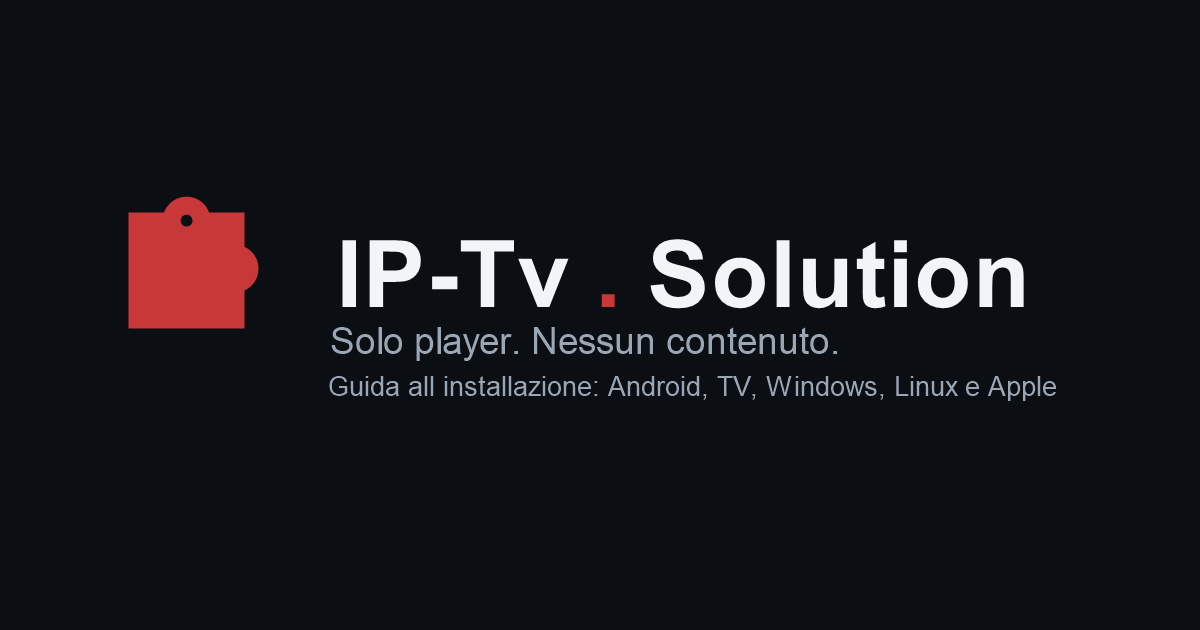
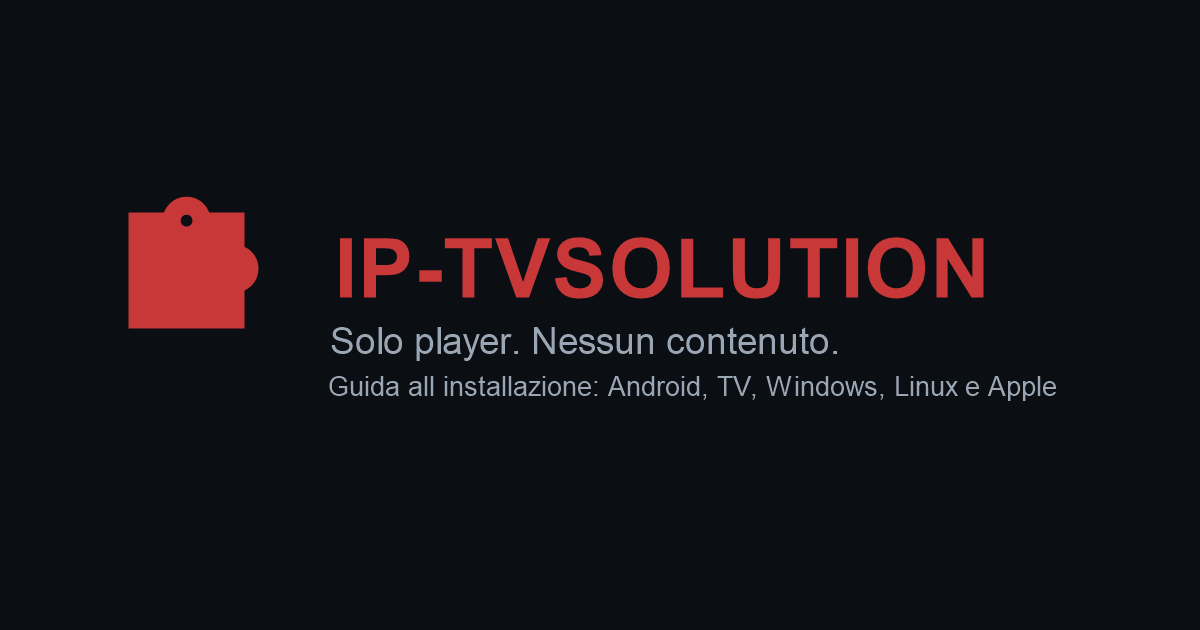
Rebrand: IP-TVSOLUTION in tutto il sito, SVG, OG image e app

Changed region(s): [[0.2775, 0.3619, 0.8633, 0.5127]]

diff --git a/src/app/chi-siamo/page.tsx b/src/app/chi-siamo/page.tsx
@@ -5,9 +5,9 @@ import { siteConfig } from "@/lib/site";
 export const metadata = buildMetadata({
   title: "Chi siamo e contatti",
   description:
-    "Chi è IP-Tv.Solution: portale italiano indipendente per l'installazione di player IPTV legittimi. Scopri il progetto, le piattaforme supportate e come contattarci.",
+    "Chi è IP-TVSOLUTION: portale italiano indipendente per l'installazione di player IPTV legittimi. Scopri il progetto, le piattaforme supportate e come contattarci.",
   path: "/chi-siamo/",
-  keywords: ["chi siamo IP-Tv.Solution", "contatti IP-Tv.Solution", "progetto player IPTV"],
+  keywords: ["chi siamo IP-TVSOLUTION", "contatti IP-TVSOLUTION", "progetto player IPTV"],
 });
 
 const platformLinks = [
@@ -57,7 +57,7 @@ export default function ChiSiamoPage() {
             {/* eslint-disable-next-line @next/next/no-img-element */}
             <img
               src="/logos/iptv-solution-text.svg"
-              alt="Logo IP-Tv.Solution"
+              alt="Logo IP-TVSOLUTION"
               className="h-16 w-auto object-contain"
             />
             <div>
@@ -79,10 +79,10 @@ export default function ChiSiamoPage() {
         <article className="min-w-0 space-y-8">
           <section aria-labelledby="chi-siamo-titolo">
             <h2 id="chi-siamo-titolo" className="text-xl font-semibold text-fg sm:text-2xl">
-              Chi è IP-Tv.Solution
+              Chi è IP-TVSOLUTION
             </h2>
             <p className="mt-3 text-sm leading-relaxed text-secondary sm:text-base">
-              IP-Tv.Solution è un progetto indipendente italiano nato per aiutare gli utenti a
+              IP-TVSOLUTION è un progetto indipendente italiano nato per aiutare gli utenti a
               installare player IPTV legittimi su qualsiasi dispositivo. Il portale raccoglie guide
               verificate, link ufficiali ai canali di distribuzione dei produttori e informazioni
               chiare sui limiti di ogni piattaforma.

diff --git a/src/app/faq/page.tsx b/src/app/faq/page.tsx
@@ -13,7 +13,7 @@ const faqs: FaqItem[] = [
   {
     question: "Questo sito fornisce canali, playlist o abbonamenti IPTV?",
     answer:
-      "No. IP-Tv.Solution non ospita, non vende e non distribuisce contenuti, liste di canali, abbonamenti o credenziali. Il portale pubblica esclusivamente informazioni sull'installazione di player regolarmente distribuiti dai produttori. Ogni utente configura il proprio player con fonti di cui possiede i diritti.",
+      "No. IP-TVSOLUTION non ospita, non vende e non distribuisce contenuti, liste di canali, abbonamenti o credenziali. Il portale pubblica esclusivamente informazioni sull'installazione di player regolarmente distribuiti dai produttori. Ogni utente configura il proprio player con fonti di cui possiede i diritti.",
   },
   {
     question: "I player del catalogo includono già dei contenuti?",
@@ -66,7 +66,7 @@ const faqs: FaqItem[] = [
       "No. Il portale è statico e non include strumenti di tracciamento pubblicitario. Le preferenze dei filtri restano nella memoria della pagina e non vengono inviate a server esterni.",
   },
   {
-    question: "Come posso contattare IP-Tv.Solution per informazioni o assistenza?",
+    question: "Come posso contattare IP-TVSOLUTION per informazioni o assistenza?",
     answer:
       "Scrivi a ip.tv-solution@tutamail.com: è l'indirizzo ufficiale per informazioni, segnalazioni e richieste di attivazione. Trovi lo stesso indirizzo anche in fondo a ogni pagina. Rispondiamo con indicazioni sull'installazione dei player e sul flusso di registrazione; ricorda che il sito non fornisce contenuti, playlist o credenziali.",
   },

diff --git a/src/app/note-legali/page.tsx b/src/app/note-legali/page.tsx
@@ -5,7 +5,7 @@ import { breadcrumbJsonLd, buildMetadata } from "@/lib/seo";
 export const metadata = buildMetadata({
   title: "Note legali e avvertenze",
   description:
-    "Natura del servizio, assenza di contenuti, uso dei marchi, link esterni, responsabilità dell'utente e trattamento dei dati su IP-Tv.Solution.",
+    "Natura del servizio, assenza di contenuti, uso dei marchi, link esterni, responsabilità dell'utente e trattamento dei dati su IP-TVSOLUTION.",
   path: "/note-legali/",
 });
 
@@ -13,7 +13,7 @@ const sections = [
   {
     title: "1. Natura del servizio",
     body: [
-      "IP-Tv.Solution è un portale informativo indipendente dedicato all'installazione di player IPTV legittimi. Il sito non è un servizio di diffusione televisiva e non offre alcun tipo di abbonamento, lista di canali o accesso a contenuti.",
+      "IP-TVSOLUTION è un portale informativo indipendente dedicato all'installazione di player IPTV legittimi. Il sito non è un servizio di diffusione televisiva e non offre alcun tipo di abbonamento, lista di canali o accesso a contenuti.",
       "Le informazioni pubblicate hanno finalità divulgative e tecniche: descrivono canali di installazione ufficiali, requisiti dei dispositivi e limiti noti delle piattaforme.",
     ],
   },

diff --git a/src/lib/site.ts b/src/lib/site.ts
@@ -1,9 +1,9 @@
 import type { Metadata } from "next";
 
 export const siteConfig = {
-  name: "IP-Tv.Solution",
-  shortName: "IP-Tv.Solution",
-  legalName: "IP-Tv.Solution",
+  name: "IP-TVSOLUTION",
+  shortName: "IP-TVSOLUTION",
+  legalName: "IP-TVSOLUTION",
   tagline: "Solo player. Nessun contenuto.",
   description:
     "Portale italiano dedicato all'installazione di player IPTV legittimi su Android, Android TV, Windows, web, LG webOS, Samsung Tizen, Apple e Linux. Guide verificate, nessun contenuto e nessuna playlist.",
@@ -31,7 +31,7 @@ export const siteConfig = {
     { label: "Note legali", href: "/note-legali/" },
   ],
   disclaimer:
-    "IP-Tv.Solution non fornisce, ospita né distribuisce contenuti, playlist, abbonamenti o credenziali IPTV. Il sito pubblica esclusivamente informazioni sull'installazione di player legittimi: ogni utente configura il proprio player con fonti di cui possiede i diritti.",
+    "IP-TVSOLUTION non fornisce, ospita né distribuisce contenuti, playlist, abbonamenti o credenziali IPTV. Il sito pubblica esclusivamente informazioni sull'installazione di player legittimi: ogni utente configura il proprio player con fonti di cui possiede i diritti.",
 } as const;
 
 export function absoluteUrl(path: string): string {

diff --git a/src/app/page.tsx b/src/app/page.tsx
@@ -65,7 +65,7 @@ export default function HomePage() {
             {/* eslint-disable-next-line @next/next/no-img-element */}
             <img
               src="/logos/iptv-solution-text.svg"
-              alt="Logo IP-Tv.Solution: puzzle rosso con la scritta IP-Tv.Solution"
+              alt="Logo IP-TVSOLUTION: puzzle rosso con la scritta IP-TVSOLUTION"
               width={240}
               height={55}
               className="h-auto w-60 shrink-0"
@@ -73,7 +73,7 @@ export default function HomePage() {
             <div>
               <p className="text-xs font-semibold uppercase tracking-wider text-accent">Il progetto</p>
               <h2 id="nostri-player-titolo" className="mt-1 text-2xl font-semibold text-fg sm:text-3xl">
-                I nostri player IP-Tv.Solution v1.9
+                I nostri player IP-TVSOLUTION v1.9
               </h2>
               <p className="mt-2 max-w-3xl text-sm leading-relaxed text-secondary">
                 Cinque edizioni del progetto per Windows, Web/Chrome, Smart TV, Android e iPhone.

diff --git a/public/anti-clone.js b/public/anti-clone.js
@@ -1,4 +1,4 @@
-/* IP-Tv.Solution - deterrente anti-clone.
+/* IP-TVSOLUTION - deterrente anti-clone.
    Nota: nessun sito statico è "non clonabile" al 100%; questo rende
    difficile la copia casuale (tasto destro, selezione, drag, devtools). */
 (function () {
@@ -45,6 +45,6 @@
   }, 1000);
 
   // 6. Console disclaimer
-  console.log("%cIP-Tv.Solution", "color:#C83838;font-size:20px;font-weight:bold");
+  console.log("%cIP-TVSOLUTION", "color:#C83838;font-size:20px;font-weight:bold");
   console.log("Solo player multimediali. Nessun contenuto, playlist o credenziale IPTV è fornito.");
 })();

diff --git a/src/components/site-footer.tsx b/src/components/site-footer.tsx
@@ -13,7 +13,7 @@ export function SiteFooter() {
             {/* eslint-disable-next-line @next/next/no-img-element */}
             <img
               src="/logos/iptv-solution-text.svg"
-              alt="IP-Tv.Solution"
+              alt="IP-TVSOLUTION"
               className="h-9 w-auto object-contain"
             />
             <p className="mt-3 max-w-md text-sm leading-relaxed text-secondary">

diff --git a/src/types/app.ts b/src/types/app.ts
@@ -81,7 +81,7 @@ export interface AppRecord {
   featured?: boolean;
   order?: number;
   verifiedAt?: string;
-  /** True per i player del progetto IP-Tv.Solution. */
+  /** True per i player del progetto IP-TVSOLUTION. */
   project?: boolean;
   /** Versione del progetto mostrata come badge (es. "1.9"). */
   version?: string;

diff --git a/src/lib/seo.ts b/src/lib/seo.ts
@@ -17,7 +17,7 @@ const OG_IMAGE = {
   url: "/og-image.png",
   width: 1200,
   height: 630,
-  alt: "IP-Tv.Solution — Solo player IPTV, nessun contenuto",
+  alt: "IP-TVSOLUTION — Solo player IPTV, nessun contenuto",
 };
 
 /** Metadata Open Graph/Twitter coerenti per tutte le pagine statiche. */

diff --git a/src/app/layout.tsx b/src/app/layout.tsx
@@ -46,7 +46,7 @@ export const metadata: Metadata = {
         url: "/og-image.png",
         width: 1200,
         height: 630,
-        alt: "IP-Tv.Solution — Solo player IPTV, nessun contenuto",
+        alt: "IP-TVSOLUTION — Solo player IPTV, nessun contenuto",
       },
     ],
   },

diff --git a/BACKLINK-LEGGITIMI.md b/BACKLINK-LEGGITIMI.md
@@ -1,4 +1,4 @@
-# Piano backlink legittimi — IP-Tv.Solution
+# Piano backlink legittimi — IP-TVSOLUTION
 
 Obiettivo: aumentare l'autorità del dominio `https://ip-tvsolution.online` con link provenienti da fonti reali e pertinenti. **Nessuna link farm, nessuno spam, nessuno schema di scambio link.**
 
@@ -36,7 +36,7 @@ Obiettivo: aumentare l'autorità del dominio `https://ip-tvsolution.online` con 
 | # | Piattaforma | Azione | Note |
 |---|---|---|---|
 | 1 | X / Twitter | Crea profilo @IPTvSolution con la bio qui sotto | Aggiungi il link al sito nel campo URL. |
-| 2 | LinkedIn | Crea pagina aziendale "IP-Tv.Solution" | Categoria "Software Development"; inserisci sito e settore. |
+| 2 | LinkedIn | Crea pagina aziendale "IP-TVSOLUTION" | Categoria "Software Development"; inserisci sito e settore. |
 | 3 | Facebook | Crea pagina pubblica | Inserisci sito, email e descrizione breve. |
 | 4 | Mastodon | https://mastodon.social → nuovo account | Bio + link; tagghiamo #opensource #iptv. |
 | 5 | Reddit | r/opensource, r/selfhosted, r/androidapps | **Solo post informativi**, non promozionali. Regole subreddit: verificarle prima. |
@@ -50,17 +50,17 @@ Obiettivo: aumentare l'autorità del dominio `https://ip-tvsolution.online` con 
 
 ### Email di richiesta per AlternativeTo (hello@alternativeto.net)
 ```
-Subject: Addition request: IP-Tv.Solution - IPTV player hub
+Subject: Addition request: IP-TVSOLUTION - IPTV player hub
 
 Hi AlternativeTo team,
 
-I would like to submit IP-Tv.Solution, a curated hub of legitimate IPTV player apps for Android, Android TV, Windows, Web/Chrome, LG webOS, Samsung Tizen, Apple and Linux.
+I would like to submit IP-TVSOLUTION, a curated hub of legitimate IPTV player apps for Android, Android TV, Windows, Web/Chrome, LG webOS, Samsung Tizen, Apple and Linux.
 
 Website: https://ip-tvsolution.online
 Contact: ip.tv-solution@tutamail.com
 Source: https://github.com/casper68ch/ip-tvsolution
 
-The portal lists 21 players (16 third-party + 5 own IP-Tv.Solution v1.9 builds) with official download links and step-by-step installation guides. It provides no channels, playlists, subscriptions or credentials - players only.
+The portal lists 21 players (16 third-party + 5 own IP-TVSOLUTION v1.9 builds) with official download links and step-by-step installation guides. It provides no channels, playlists, subscriptions or credentials - players only.
 
 Thank you for considering it.
 Casper
@@ -68,33 +68,33 @@ Casper
 
 ### Bio breve (Italiano)
 ```
-IP-Tv.Solution — Player IPTV legittimi per Android, Windows, Smart TV e Linux.
+IP-TVSOLUTION — Player IPTV legittimi per Android, Windows, Smart TV e Linux.
 Solo player. Nessun contenuto, playlist o credenziale.
 https://ip-tvsolution.online
 ```
 
 ### Short description (English)
 ```
-IP-Tv.Solution is a curated hub of legitimate IPTV player apps for Android, Android TV, Windows, Web, LG webOS, Samsung Tizen, Apple and Linux. No playlists, no credentials — just players, with official installation guides. https://ip-tvsolution.online
+IP-TVSOLUTION is a curated hub of legitimate IPTV player apps for Android, Android TV, Windows, Web, LG webOS, Samsung Tizen, Apple and Linux. No playlists, no credentials — just players, with official installation guides. https://ip-tvsolution.online
 ```
 
 ### Descrizione lunga per directory (English)
 ```
-IP-Tv.Solution is an independent, Italian-language directory of legitimate multimedia player applications. It helps users find the right IPTV player for their device — Android, Android TV, Windows, Web/Chrome, LG webOS, Samsung Tizen, Apple and Linux — with step-by-step installation guides, official download links, pros and cons, and clear legal disclaimers.
+IP-TVSOLUTION is an independent, Italian-language directory of legitimate multimedia player applications. It helps users find the right IPTV player for their device — Android, Android TV, Windows, Web/Chrome, LG webOS, Samsung Tizen, Apple and Linux — with step-by-step installation guides, official download links, pros and cons, and clear legal disclaimers.
 
 The project also publishes five editions of its own player (Windows, Web/Chrome, Smart TV, Android and iPhone PWA, version 1.9) with activation and automatic updates.
 
-IP-Tv.Solution does NOT provide channels, playlists, subscriptions or credentials of any kind. It only lists players that can be configured with sources the user is entitled to use.
+IP-TVSOLUTION does NOT provide channels, playlists, subscriptions or credentials of any kind. It only lists players that can be configured with sources the user is entitled to use.
 
 Website: https://ip-tvsolution.online
 Contact: ip.tv-solution@tutamail.com
 ```
 
 ### Anchor text consigliati (variare, non usare sempre lo stesso)
-- `IP-Tv.Solution`
+- `IP-TVSOLUTION`
 - `player IPTV legittimi`
 - `guida installazione player IPTV`
-- `IP-Tv.Solution — solo player`
+- `IP-TVSOLUTION — solo player`
 - `https://ip-tvsolution.online` (link nudo)
 
 ---

diff --git a/README-GITHUB.md b/README-GITHUB.md
@@ -1,13 +1,13 @@
-# IP-Tv.Solution
+# IP-TVSOLUTION
 
 **Solo player. Nessun contenuto.**
 
-IP-Tv.Solution è un portale che raccoglie guide all'installazione di **player IPTV legittimi** per Android, Android TV, Windows, Web/Chrome, LG webOS, Samsung Tizen, Apple e Linux, oltre alle cinque edizioni del progetto (v1.9).
+IP-TVSOLUTION è un portale che raccoglie guide all'installazione di **player IPTV legittimi** per Android, Android TV, Windows, Web/Chrome, LG webOS, Samsung Tizen, Apple e Linux, oltre alle cinque edizioni del progetto (v1.9).
 
 🌐 **Sito ufficiale:** https://ip-tvsolution.online
 📧 **Contatti:** ip.tv-solution@tutamail.com
 
-> ⚠ **Avvertenza legale.** IP-Tv.Solution distribuisce esclusivamente player multimediali. Nessun canale, playlist, abbonamento o credenziale IPTV è fornito. Gli utenti configurano i player con fonti di cui possiedono i diritti. I marchi citati appartengono ai rispettivi proprietari e sono usati a scopo informativo.
+> ⚠ **Avvertenza legale.** IP-TVSOLUTION distribuisce esclusivamente player multimediali. Nessun canale, playlist, abbonamento o credenziale IPTV è fornito. Gli utenti configurano i player con fonti di cui possiedono i diritti. I marchi citati appartengono ai rispettivi proprietari e sono usati a scopo informativo.
 
 ## Piattaforme supportate
 
@@ -22,7 +22,7 @@ IP-Tv.Solution è un portale che raccoglie guide all'installazione di **player I
 | Apple | [Guida](https://ip-tvsolution.online/piattaforma/apple/) |
 | Linux | [Guida](https://ip-tvsolution.online/piattaforma/linux/) |
 
-## Download IP-Tv.Solution v1.9
+## Download IP-TVSOLUTION v1.9
 
 | File | Link |
 |---|---|
@@ -60,6 +60,6 @@ Next.js 15 (App Router, TypeScript, Tailwind v4), output statico `out/`, 21 play
 
 ## Licenza e branding
 
-Basato su ultra-tv (MIT). Colore brand `#C83838`. Nome e loghi: IP-Tv.Solution.
+Basato su ultra-tv (MIT). Colore brand `#C83838`. Nome e loghi: IP-TVSOLUTION.
 
 Contatti: **ip.tv-solution@tutamail.com**
